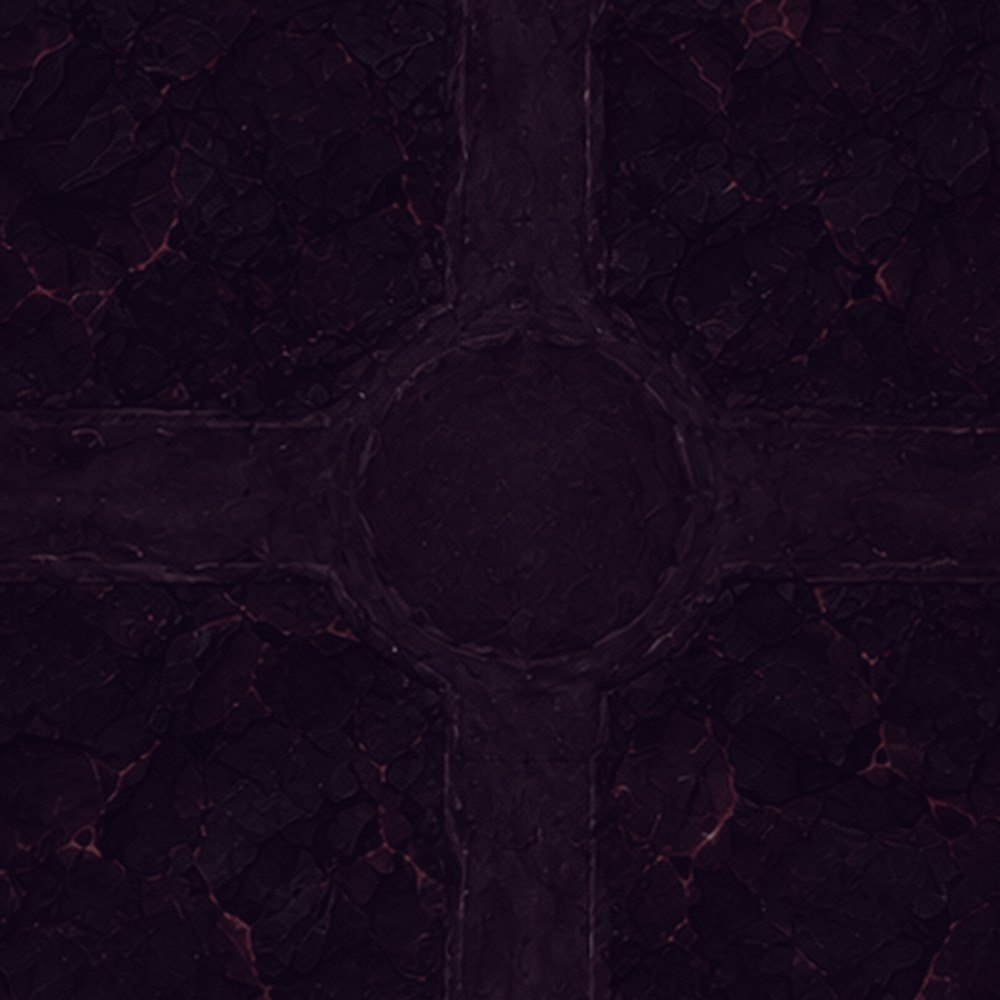
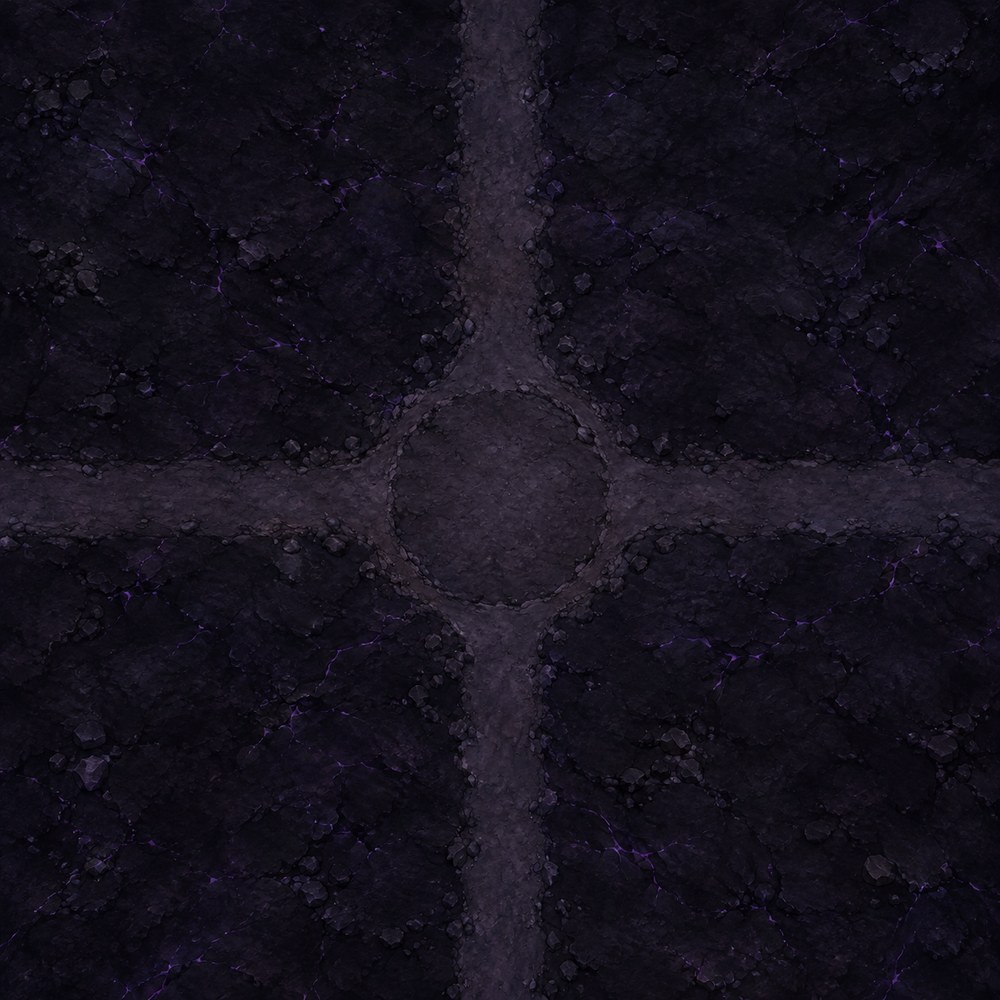
v0.4.0.0111: 4스테이지 전용 필드 배경 적용
Claude-Session: https://claude.ai/code/session_01XgMamwA2MFesNFKDoCmsPA

diff --git a/index.html b/index.html
@@ -415,7 +415,7 @@ body.hud-norank #dmgRank,body.hud-nocombo #combo,body.hud-nolvpen #lvPen{display
   </div>
 
   <section class="screen" id="sTitle">
-    <div class="ver" id="verT">v0.4.0.0110</div>
+    <div class="ver" id="verT">v0.4.0.0111</div>
     <button class="gearT" id="bSet" aria-label="설정">⚙</button>
     <div class="eyebrow">DARK GUARDIAN</div>
     <h1>어둠의 수호자</h1>
